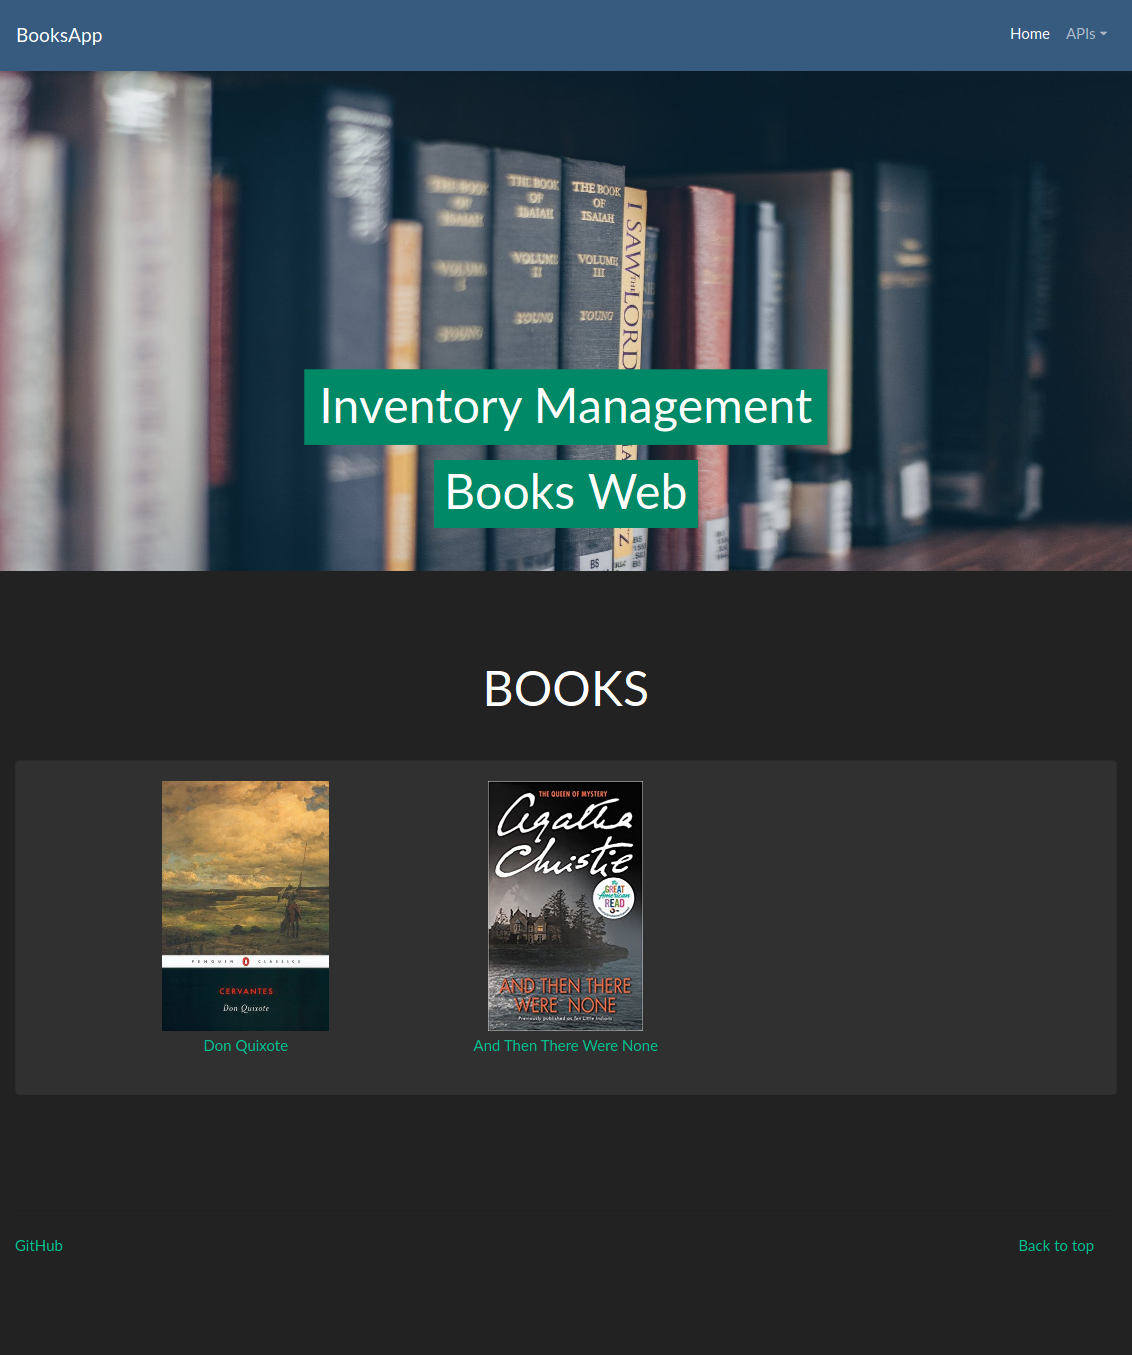
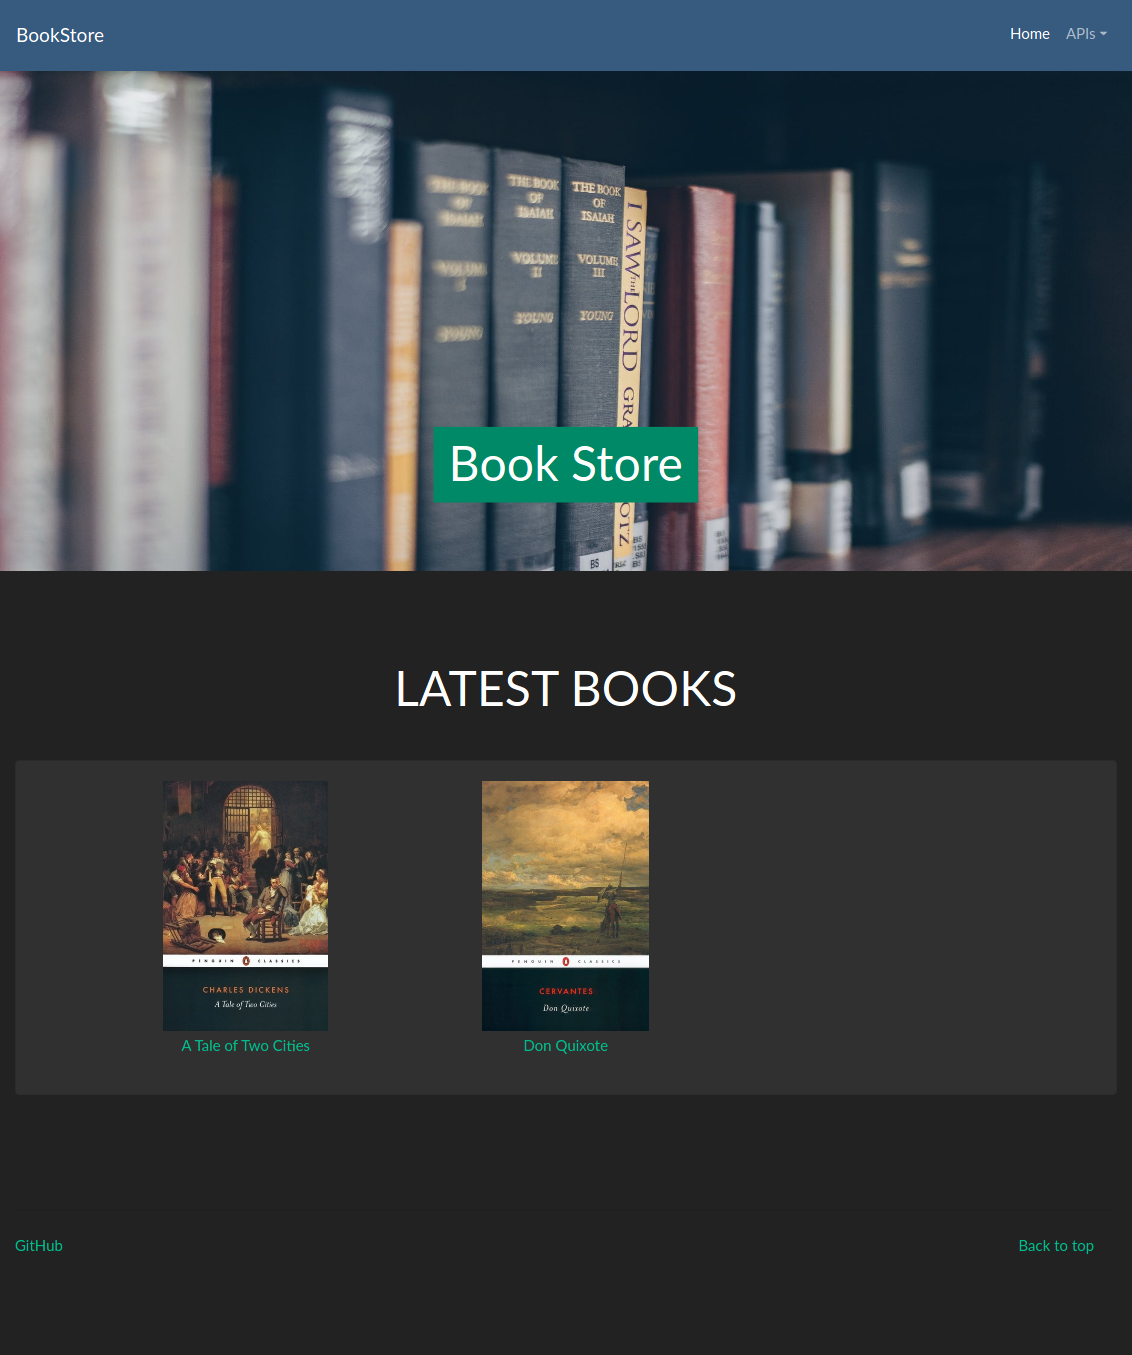
Image Changes

diff --git a/templates/layout.html b/templates/layout.html
@@ -11,7 +11,7 @@
   <link href="{% static 'css/style.css' %}?rand={{rand}}" rel="stylesheet">{% block css %} {% endblock %}</head>
 
 <body>
-  <nav class="navbar navbar-expand-lg navbar-dark bg-primary"> <a class="navbar-brand" href="{% url 'home' %}">BooksApp</a>
+  <nav class="navbar navbar-expand-lg navbar-dark bg-primary"> <a class="navbar-brand" href="{% url 'home' %}">BookStore</a>
     <button class="navbar-toggler" type="button" data-toggle="collapse" data-target="#navbarColor01" aria-controls="navbarColor01" aria-expanded="false" aria-label="Toggle navigation"> <span class="navbar-toggler-icon"></span>
     </button>
     <div class="collapse navbar-collapse" id="navbarColor01">

diff --git a/templates/home.html b/templates/home.html
@@ -12,9 +12,7 @@
                      <span class="heading1" style="background-color: #008966;
                         display: inline-block;
                         padding: 10px 15px 8px;
-                        margin-bottom: 20px;">Inventory Management</span><br>
-                     <span class="heading2" style="background-color: #008966;
-                        padding: 10px;margin-top: 10px;">Books Web</span>
+                        margin-bottom: 20px;">Book Store</span><br>
                   </h1>
                </div>
             </div>

diff --git a/books/views.py b/books/views.py
@@ -24,8 +24,8 @@ class Home(TemplateView):
 
         books = Book.objects.all()
 
-        ctx['title'] = 'Books Library'
-        ctx['heading'] = 'BOOKS'
+        ctx['title'] = 'Books Store'
+        ctx['heading'] = 'LATEST BOOKS'
         ctx['username'] = 'Admin'
         ctx['books'] = books
         ctx['rand'] = randint(100, 999)
